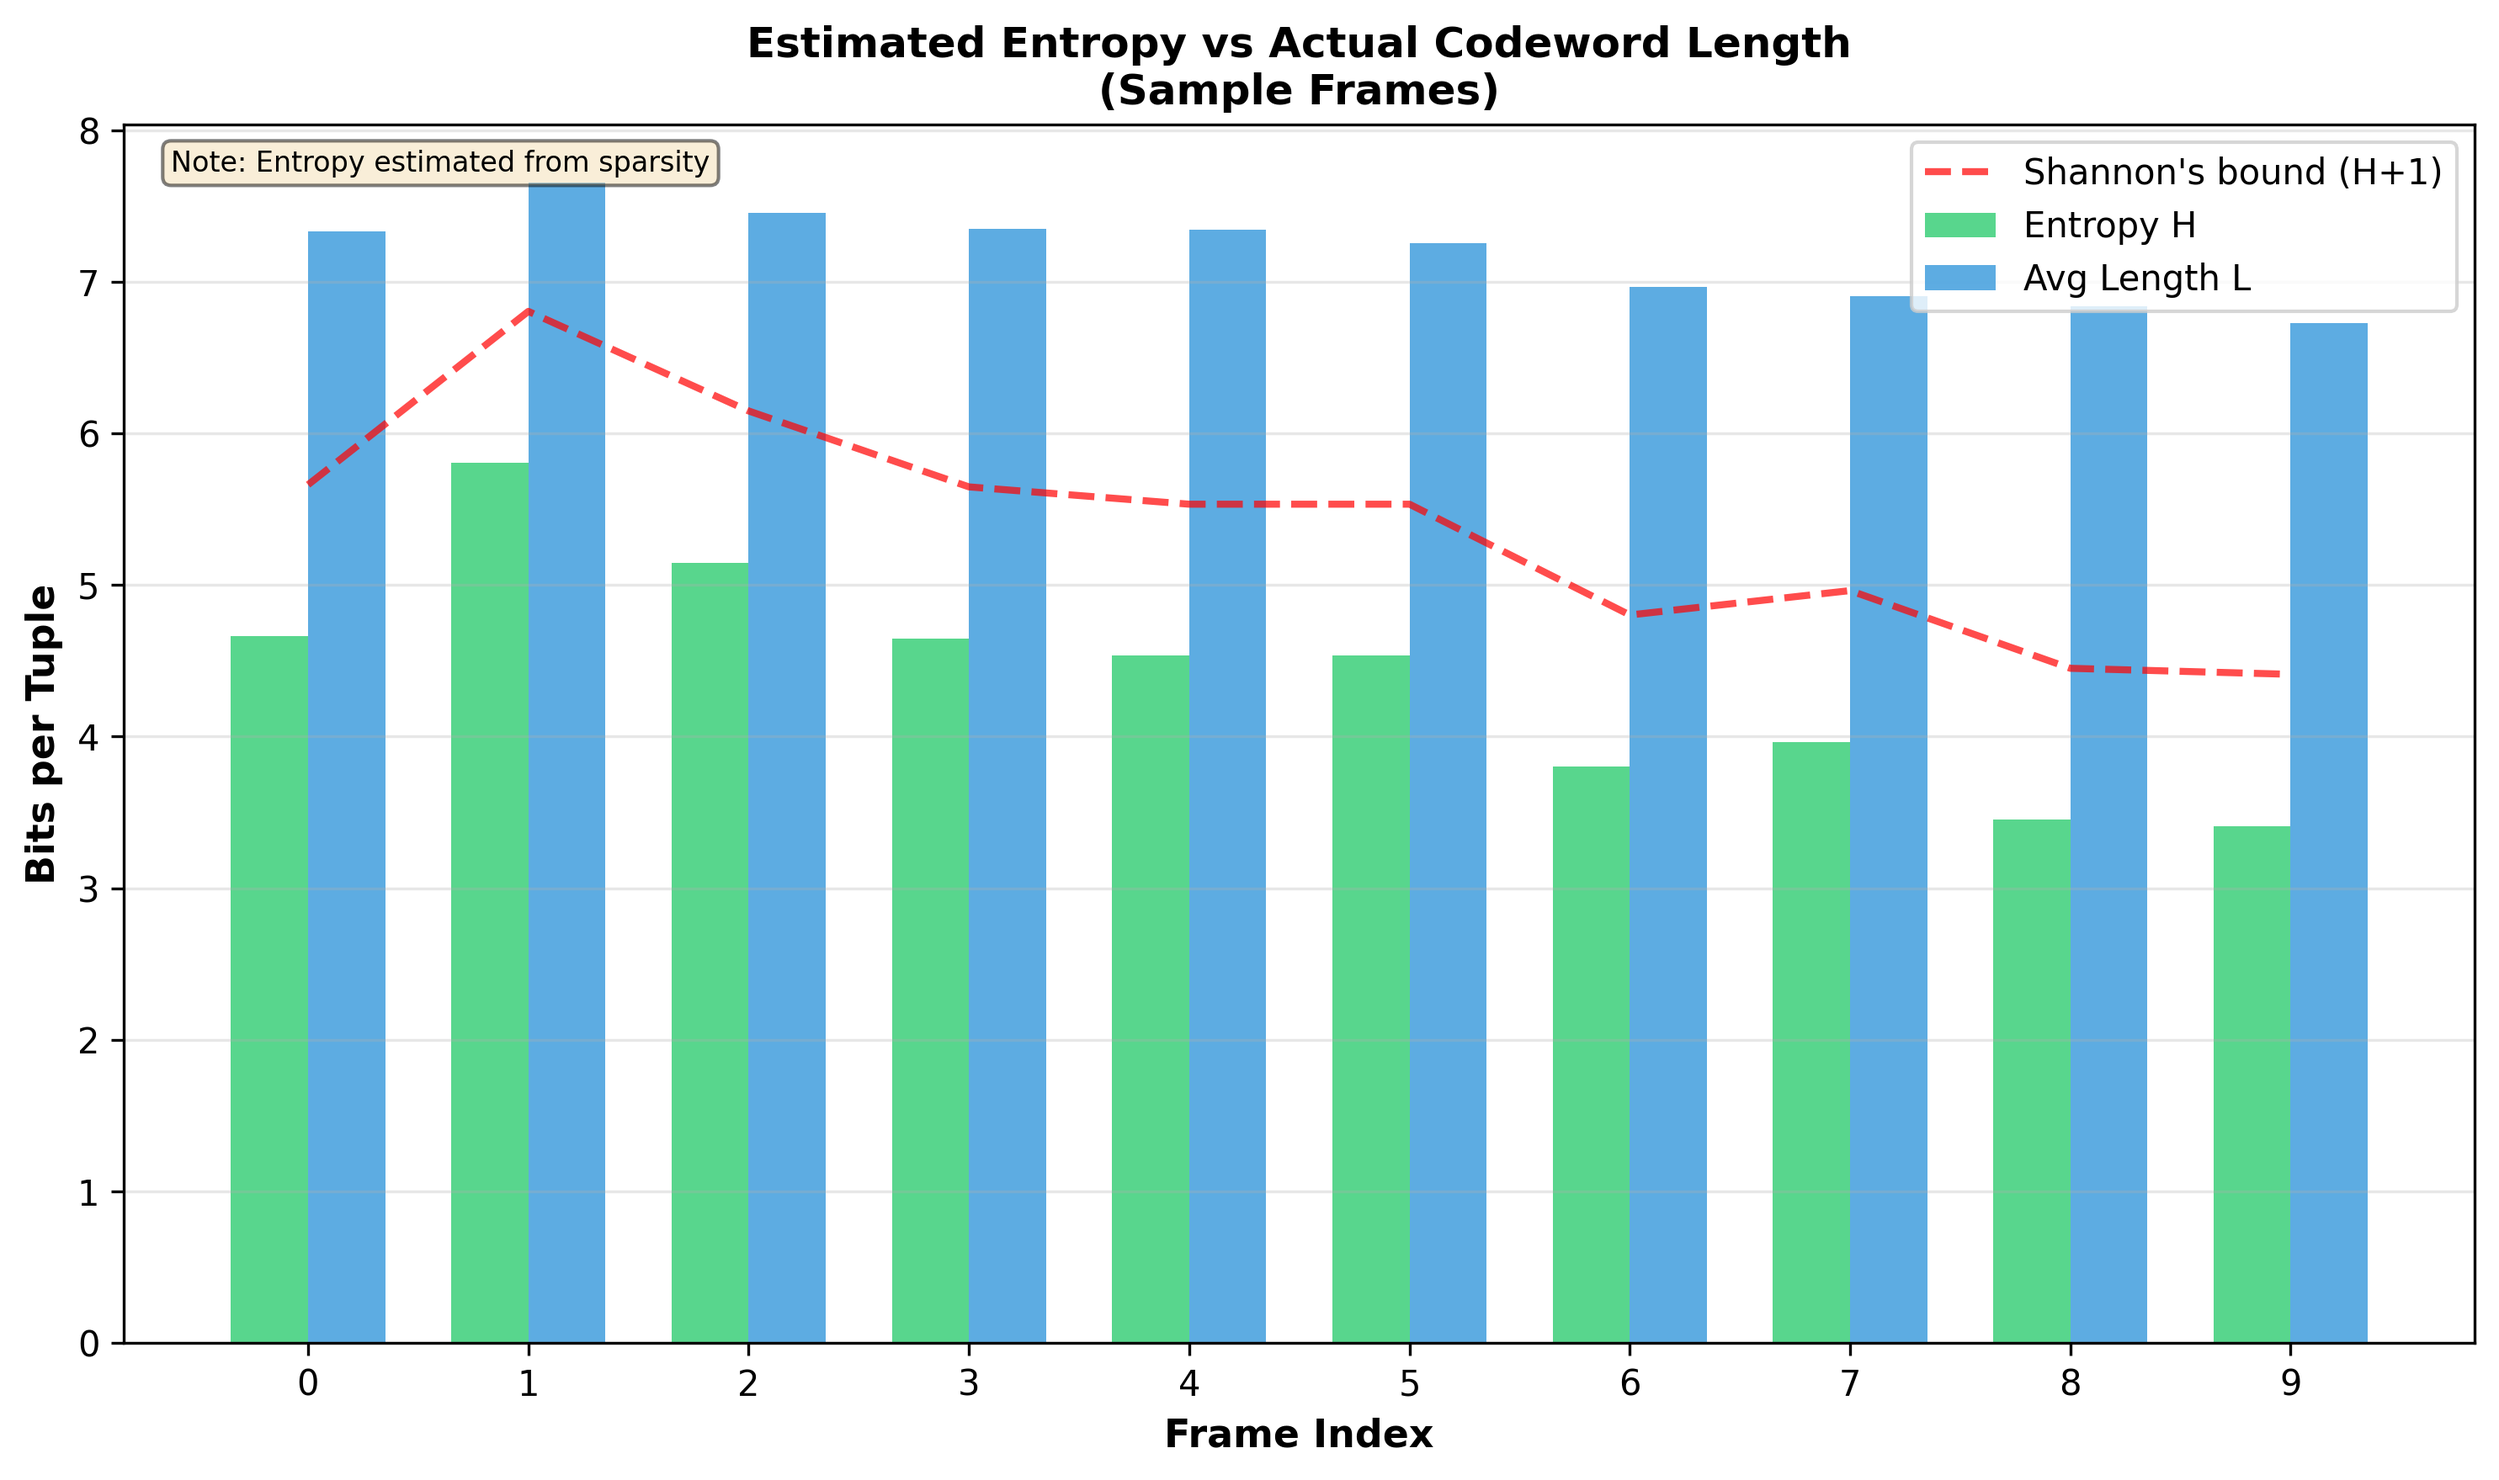
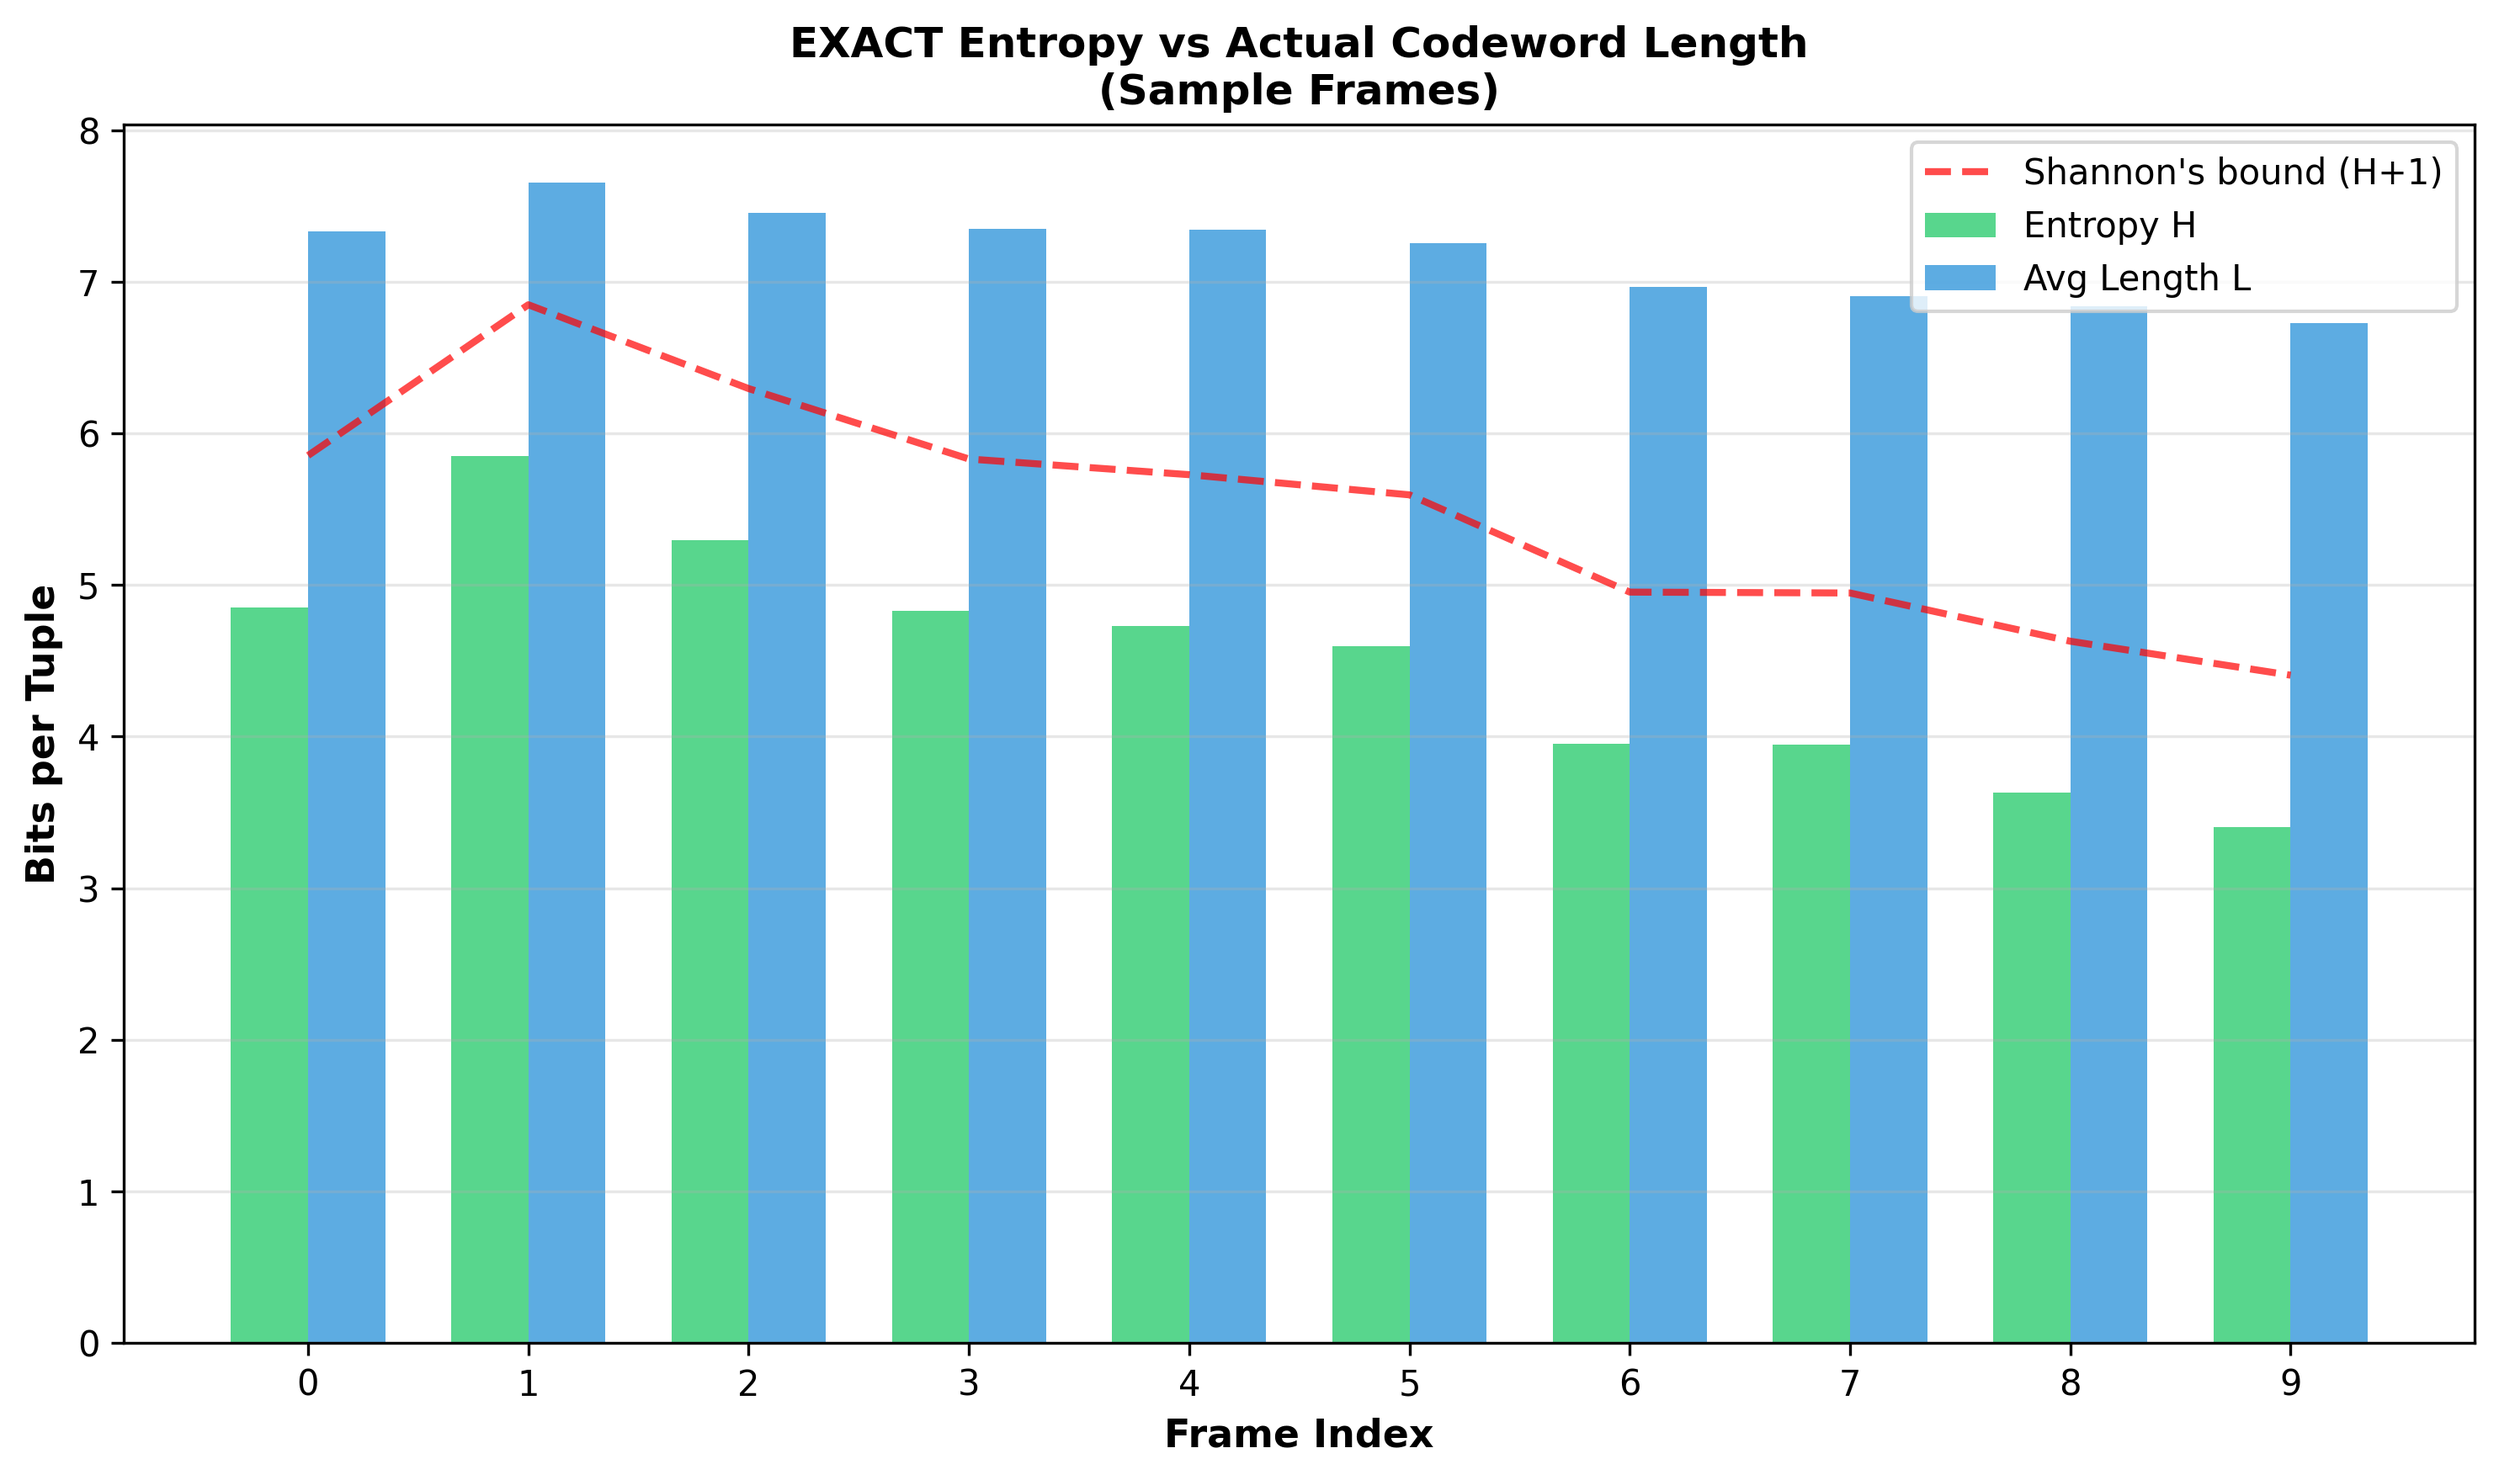
clear up code and make diagrams

diff --git a/level_3/utils_level_3/entropy_analysis.py b/level_3/utils_level_3/entropy_analysis.py
@@ -11,6 +11,7 @@ import numpy as np
 import matplotlib.pyplot as plt
 from collections import Counter
 import os
+import scipy.io as sio
 
 
 # Codebook tuple sizes (AAC standard)
@@ -135,7 +136,7 @@ def analyze_frame_entropy(frame_data, frame_idx=0, verbose=False, channel='left'
     if isinstance(codebook_raw, np.ndarray):
         codebook_arr = codebook_raw.flatten()
         # Get most common codebook
-        codebook = int(np.median(codebook_arr[codebook_arr > 0])) if len(codebook_arr[codebook_arr > 0]) > 0 else 3
+        codebook = int(np.median(codebook_arr[codebook_arr > 0]).item()) if len(codebook_arr[codebook_arr > 0]) > 0 else 3
     else:
         codebook = int(codebook_raw)
     
@@ -192,7 +193,7 @@ def analyze_frame_entropy(frame_data, frame_idx=0, verbose=False, channel='left'
         
     if nonzero_raw is not None:
         if isinstance(nonzero_raw, np.ndarray):
-            nonzero_coeffs = int(nonzero_raw.flatten()[0])
+            nonzero_coeffs = int(nonzero_raw.flatten()[0].item())
         else:
             nonzero_coeffs = int(nonzero_raw)
     else:
@@ -383,15 +384,7 @@ def analyze_all_frames(aac_seq, max_frames=None, verbose=False):
     num_frames = len(aac_seq) if max_frames is None else min(max_frames, len(aac_seq))
     results = []
     
-    if verbose:
-        print(f"\n{'='*70}")
-        print(f"Analyzing {num_frames} AAC frames...")
-        print(f"{'='*70}")
-    
     for i in range(num_frames):
-        if verbose and i % 10 == 0:
-            print(f"Processing frame {i}/{num_frames}...")
-        
         result = analyze_frame_entropy(aac_seq[i], frame_idx=i, verbose=False)
         results.append(result)
     
@@ -428,47 +421,23 @@ def analyze_all_frames(aac_seq, max_frames=None, verbose=False):
 def print_summary(results, summary):
     """Print formatted summary of entropy analysis."""
     print(f"\n{'='*70}")
-    print("AAC HUFFMAN ENTROPY ANALYSIS - SUMMARY")
+    print("AAC HUFFMAN ENTROPY ANALYSIS")
     print(f"{'='*70}")
     
-    # Check if we have exact entropy or estimates
-    if summary['has_exact_entropy']:
-        print("✅ Using EXACT entropy (quantized symbols available)")
-    else:
-        print("⚠ Using ESTIMATED entropy (quantized symbols not saved)")
-        print("   Re-encode with updated encoder for exact results")
+    method_label = "EXACT" if summary.get('has_exact_entropy', False) else "ESTIMATED"
     
-    print(f"\nTotal Frames Analyzed: {summary['num_frames']}")
+    print(f"\nFrames: {summary['num_frames']} | Method: {method_label}")
+    print(f"\nEntropy (H):         {summary['mean_H_tuple']:.3f} bits/tuple")
+    print(f"Codeword Length (L): {summary['mean_L_tuple']:.3f} bits/tuple")
+    print(f"Efficiency (H/L):    {summary['mean_efficiency']*100:.1f}%")
+    print(f"Redundancy (L-H):    {summary['mean_redundancy']:.3f} bits/tuple")
     
-    method_label = "EXACT" if summary['has_exact_entropy'] else "Estimated"
+    print(f"\nCompression: {summary['mean_compression_ratio']:.2f}x (effective: {16/summary['mean_compression_ratio']:.2f} bits/symbol)")
     
-    print(f"\n--- AGGREGATE RESULTS (Tuple-Based) ---")
-    print(f"{method_label} Entropy (H):       {summary['mean_H_tuple']:.4f} ± {summary['std_H_tuple']:.4f} bits/tuple")
-    print(f"Average Codeword Length (L): {summary['mean_L_tuple']:.4f} ± {summary['std_L_tuple']:.4f} bits/tuple")
-    print(f"{method_label} Efficiency (H/L):  {summary['mean_efficiency']*100:.2f} ± {summary['std_efficiency']*100:.2f}%")
-    print(f"Redundancy (L-H):            {summary['mean_redundancy']:.4f} ± {summary['std_redundancy']:.4f} bits/tuple")
-    print(f"\nOverall Compression Ratio:   {summary['mean_compression_ratio']:.2f}x (vs 16-bit fixed)")
-    print(f"\n--- COMPRESSION INTERPRETATION ---")
-    if summary['mean_compression_ratio'] >= 5:
-        print(f"✓ Excellent compression achieved ({summary['mean_compression_ratio']:.1f}x)")
-    else:
-        print(f"○ Moderate compression ({summary['mean_compression_ratio']:.1f}x)")
-    print(f"  Effective bit rate: {16/summary['mean_compression_ratio']:.2f} bits/symbol")
-    
-    # Show first few frames
-    print(f"\n--- SAMPLE FRAME DETAILS (First 5 Frames) ---")
-    print(f"{'Frame':<8} {'CB':<4} {'H':<12} {'L':<12} {'Eff%':<10} {'Comp.Ratio':<12}")
-    print("-" * 70)
-    for r in results[:5]:
-        print(f"{r['frame_idx']:<8} {r['codebook']:<4} {r['H_tuple']:<12.4f} {r['L_tuple']:<12.4f} {r['efficiency']*100:<10.2f} {r['compression_ratio']:<12.2f}x")
-    
-    if len(results) > 5:
-        print("...")
-    
-    print(f"{'='*70}\n")
+    print(f"\n{'='*70}")
 
 
-def visualize_entropy_analysis(results, summary, save_dir='outputs/plots/encoding_analysis'):
+def visualize_entropy_analysis(results, summary, save_dir=r'C:\Users\30690\AAC-Codec\level_3\outputs\plots\encoding_analysis'):
     """
     Create comprehensive visualization of entropy analysis as 4 separate plots.
     
@@ -520,65 +489,8 @@ def visualize_entropy_analysis(results, summary, save_dir='outputs/plots/encodin
     fig1.tight_layout()
     save_path1 = os.path.join(save_dir, '1_entropy_vs_length.png')
     fig1.savefig(save_path1, dpi=300, bbox_inches='tight')
-    print(f"\n✓ Plot 1 saved: {save_path1}")
     plt.close(fig1)
-    
-    # ========== Plot 2: Efficiency distribution ==========
-    fig2 = plt.figure(figsize=(10, 6))
-    ax2 = fig2.add_subplot(111)
-    efficiencies = [r['efficiency'] for r in results]
-    ax2.hist(efficiencies, bins=30, color='#9b59b6', alpha=0.7, edgecolor='black')
-    ax2.axvline(summary['mean_efficiency'], color='red', linestyle='--', linewidth=2, 
-                label=f"Mean: {summary['mean_efficiency']:.2f}%")
-    ax2.set_xlabel('Efficiency (%)', fontsize=11, fontweight='bold')
-    ax2.set_ylabel('Number of Frames', fontsize=11, fontweight='bold')
-    ax2.set_title(f'Efficiency Distribution Across All Frames\n(n={len(results)})', fontsize=12, fontweight='bold')
-    ax2.legend()
-    ax2.grid(axis='y', alpha=0.3)
-    
-    fig2.tight_layout()
-    save_path2 = os.path.join(save_dir, '2_efficiency_distribution.png')
-    fig2.savefig(save_path2, dpi=300, bbox_inches='tight')
-    print(f"✓ Plot 2 saved: {save_path2}")
-    plt.close(fig2)
-    
-    # ========== Plot 3: Tuple probability distribution ==========
-    fig3 = plt.figure(figsize=(12, 6))
-    ax3 = fig3.add_subplot(111)
-    repr_frame = results[0]  # First frame as representative
-    tuple_probs = repr_frame.get('prob_dist', {})
-    
-    if tuple_probs and len(tuple_probs) > 0:
-        # Get top 20 most frequent tuples
-        sorted_tuples = sorted(tuple_probs.items(), key=lambda x: x[1], reverse=True)[:20]
-        tuple_labels = [str(t) for t, p in sorted_tuples]
-        tuple_probs_values = [p for t, p in sorted_tuples]
-        
-        ax3.bar(range(len(tuple_labels)), tuple_probs_values, color='#e74c3c', alpha=0.7)
-        ax3.set_xlabel('Tuple', fontsize=11, fontweight='bold')
-        ax3.set_ylabel('Probability', fontsize=11, fontweight='bold')
-        ax3.set_title(f'Tuple Probability Distribution\n(Frame {repr_frame["frame_idx"]}, Top 20)', fontsize=12, fontweight='bold')
-        ax3.set_xticks(range(len(tuple_labels)))
-        ax3.set_xticklabels(tuple_labels, rotation=45, ha='right', fontsize=8)
-        ax3.grid(axis='y', alpha=0.3)
-    else:
-        # Show sparsity info instead
-        sparsity_data = [r.get('sparsity', 0) for r in results[:20]]
-        frame_idx_data = [r['frame_idx'] for r in results[:20]]
-        ax3.bar(range(len(sparsity_data)), sparsity_data, color='#e74c3c', alpha=0.7)
-        ax3.set_xlabel('Frame Index', fontsize=11, fontweight='bold')
-        ax3.set_ylabel('Sparsity (%)', fontsize=11, fontweight='bold')
-        ax3.set_title(f'Coefficient Sparsity (First 20 Frames)\n(Higher = More Zeros = Lower Entropy)', fontsize=12, fontweight='bold')
-        ax3.set_xticks(range(len(frame_idx_data)))
-        ax3.set_xticklabels(frame_idx_data)
-        ax3.grid(axis='y', alpha=0.3)
-    
-    fig3.tight_layout()
-    save_path3 = os.path.join(save_dir, '3_probability_or_sparsity.png')
-    fig3.savefig(save_path3, dpi=300, bbox_inches='tight')
-    print(f"✓ Plot 3 saved: {save_path3}")
-    plt.close(fig3)
-    
+
     # ========== Plot 4: H and L trend across all frames ==========
     fig4 = plt.figure(figsize=(12, 6))
     ax4 = fig4.add_subplot(111)
@@ -604,8 +516,39 @@ def visualize_entropy_analysis(results, summary, save_dir='outputs/plots/encodin
     fig4.tight_layout()
     save_path4 = os.path.join(save_dir, '4_trend_across_frames.png')
     fig4.savefig(save_path4, dpi=300, bbox_inches='tight')
-    print(f"✓ Plot 4 saved: {save_path4}")
     plt.close(fig4)
-    
-    print(f"\n✓ All 4 plots saved to: {save_dir}")
 
+def main():
+    """Run entropy analysis on AAC encoded sequence."""
+    
+    # Load AAC encoded sequence
+    aac_file = 'C:\\Users\\30690\\AAC-Codec\\level_3\\outputs\\aac_seq_3.mat'
+    
+    try:
+        mat_data = sio.loadmat(aac_file)
+        
+        # Handle different variable names
+        if 'aac_seq_3' in mat_data:
+            aac_seq = mat_data['aac_seq_3'].squeeze()
+        else:
+            print(f"Error: Could not find AAC sequence in file")
+            return
+        
+        # Analyze all frames
+        results, summary = analyze_all_frames(aac_seq, verbose=False)
+        
+        # Print summary
+        print_summary(results, summary)
+        
+        # Visualize results
+        visualize_entropy_analysis(results, summary)
+        
+        print(f"\n✓ Analysis complete. Plots saved to: C:\\Users\\30690\\AAC-Codec\\level_3\\outputs\\plots\\encoding_analysis")
+        
+    except FileNotFoundError:
+        print(f"\nError: File not found. Run demo_aac_3.py first.")
+    except Exception as e:
+        print(f"\nError: {e}")
+
+if __name__ == "__main__":
+    main()
